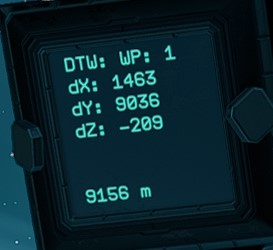
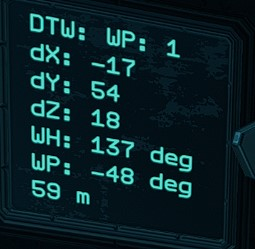
ISAN Waypoint Version 3.0

diff --git a/ISAN-Waypoint System/README.md b/ISAN-Waypoint System/README.md
@@ -1,22 +1,23 @@
-Version 2.0 - ISAN + Waypoint + Heading
+Version 3.0 - ISAN + Waypoint + Ship and Waypoint Heading
 ![Full-System](images/FullSystem.jpg)
 
-## Added support for up to 16 waypoints. Added Heading and Pitch (Thanks LizardFish).  Upgraded ISAN to new version with more reliable speed and other features.
+## Added support for up to 16 waypoints. Added Ship and Waypoint Heading and Pitch (Thanks LizardFish).  Upgraded ISAN to new version with more reliable speed and other features.
 
 This is the ISAN system from the Collective. 
 ![Coordinates](images/Coordinates.jpg)
 
-It has modified to work with my waypoint system and adding in heading and pitch from LizardFish.  The system will store up to 16 waypoints, cycle up and down (wrapping at the ends) and has a overwrite and home feature (goes to wp1).
+It has been modified to work with my waypoint system and adding in heading and pitch for both ship and to waypoint.  The system will store up to 16 waypoints, cycle up and down (wrapping at the ends) and has an overwrite and home feature (goes to wp1).
 
 "Pitch is your "vertical" angle from the Z axis with 0 being flat along the plane of the belt, and -90 and 90 being perpendicular.
 Heading is your "horizontal" angle from the Z axis with 0 being along it pointing into the belt, 90 being along the X axis pointing "left" along the belt, and it wrapping back around to 360 pointing back into the belt"
 
 # Getting Started
-You can install all or part of this system. These instructions assume you are installing it all. The ISAN.yolol is the same as the one found on their github as of 8/17/21, except it has been modified for Mono mode accuracry (pr=1), speed indication (sp=1),memory chip storage of X, Y and Z, and support of heading and pitch system.
+You can install all or part of this system. These instructions assume you are installing it all. The ISAN.yolol is the same as the one found on their github as of 8/17/21, except it has been modified for Mono mode accuracry (pr=1), speed indication (sp=1),memory chip storage of X, Y and Z, and support of heading and pitch system.  Do not use vanilla ISAN with this system.
 
 #### Materials List for whole system
-* Advanced YOLOL Chip - ISAN.yolol script.
-* Advanded YOLOL Chip - DTW.yolol script.
+* Advanced YOLOL Chip - ISAN.yolol script - This is the ISAN script
+* Advanded YOLOL Chip - WPDTW.yolol script - This is the Waypoint screen info script
+* Advanced YOLOL Chip - ShipHeading.yolol script - This is the ships heading screen info script.
 * Basic YOLOL Chip - WPIncrement.yolol script.
 * (OPTIONAL) Basic YOLOL Chip - Deltas.yolol, needed if display of current deltas is desired.
 * 3 YOLOL Memory Chips - One for storing `X`, `Y`, `Z` and current WP's `wX`, `wY`, `wZ`, and current `wpnum`.  One for storing up to 10 waypoints. One for storing another 6 waypoints and variables needed for heading and pitch
@@ -25,22 +26,25 @@ You can install all or part of this system. These instructions assume you are in
 * 1 progress bar (OPTIONAL) - Used to display current WP by the selectors.
 
 #### Setup Instructions - Note: `wpb` is a critical field.  If you do not use warning buttons, you must create this field in memory chip 1.
-1. Install all chips for desired level of system.  Be sure to bolt them in where appropriate.  Remember Memory chips only go in one way and can vanish if not inserted properly.  Recommend inserting memory chip, the yaw slightly on ship, see if its still in place.
-2. Memory Chip 1.  On the chip, set the following fields: `X`, `Y`, `Z` to 1000, `wx`, `wy`, `wz` to 1000, `wpc` to "1000 1000 1000", `wpnum` to 1.  ![MEMORY-CHIP1](images/MemChip1.jpg)
-3. Install the modified ISAN.yolol from here on an Advanced Chip.  Set up the receivers fields and data screen name (`_`) per https://isan.to/isan.pdf. The Waypoint system doesnt care if you are mono or quad mode.  If quad mode, you can set pr=0 in the script to turn off precision.  The isan.yolol in this folder is modified, do not use the vanilla version. (Display and Reciever fields should be updated as shown in the PDF) ![ISAN-SCREEN](images/ISANScreen.jpg)
-4. (OPTIONAL) Install Deltas.yolol on basic chip.  On a Text Screen, rename PanelValue field name to `Deltas`.  When moving, this will show your current delta X, Y and Z along with OPENING or CLOSING in reference to X, Y and Z to selected Waypoint.![DELTAS-SCREEN](images/DeltasScreen.jpg)
-5. Install Memory Chip 2.  On the chip, set the fields to: `wp1` to `wp10`.  Set the values to "1 1 1" unless you have specific waypoints you want to put in. ![MEMORY-CHIP2](images/MemChip2.jpg)
-6. Install Memory Chip 3.  On it set fields `i`, `j`, `k`, `l` to 0, set fields `wp11` to `wp16` to "1 1 1". ![MEMORY-CHIP3](images/MemChip3.jpg)
-7. Install DTW.yolol on an advanced chip.  On a text screen, rename PanelValue field name to `DTW`.  This will display Waypoint Number, Distance, and delta X, Y, Z to it. ![DTW-SCREEN](images/DTWScreen.jpg)  On another text screen, renamed PanelValuye field to `Heading`  ![HEADING](images/Heading.jpg)
-8. Install WPIncrement.yolol on an basic chip. Install 4 warning buttons. Rename ButtonState field names to `wpi`, `wpd`, `wps`, `wph`.  (Increment, Decrement, Save, Home).  Rename all ButtonEnableBlink fields to `wpb`.  ButtonStyle should be 1.  ButtonColor is user preference, i use Red(0) for decrement, Green(2) for increment, Blue(3) for Save, and Orange(1) for Home. ![WP-Buttons](images/WPInc-DecButtons.jpg)  Note: `wpb` is a critical field.  If you do not use warning buttons, you must create this field in memory chip 1.
-9. (OPTIONAL) Install progress bar near warning buttons if needed to show currently selected waypoint. Name PanelValue to `wpnum`.  Minvalue 0, maxvalue 16.
+1. Install all chips for desired level of system.  Be sure to bolt them in where appropriate.  Remember Memory chips only go in one way and can vanish if not inserted properly.  Recommend inserting memory chip, then yaw slightly on ship, see if its still in place.
+2. Memory Chip 1.  On the chip, set the following fields: `X`, `Y`, `Z` to 0, `wx`, `wy`, `wz` to 1000, `wpc` to `"1000 1000 1000"` (quotes included), `wpnum` to 1. If not using warning buttons (see below) put `wpb` on this chip set to 0.  ![MEMORY-CHIP1](images/MemChip1.jpg)
+3. Install Memory Chip 2.  On the chip, set the fields to: `wp1` to `wp10`.  Set the values to `"1000 1000 1000"` (quotes included) unless you have specific waypoints you want to put in. ![MEMORY-CHIP2](images/MemChip2.jpg)
+4. Install Memory Chip 3.  On it set fields `i`, `j`, `k`, `l` to 0, set fields `wp11` to `wp16` to `"1000 1000 1000"` (quotes included). ![MEMORY-CHIP3](images/MemChip3.jpg)
+5. Install the modified ISAN.yolol from here on an Advanced Chip.  Set up the receivers fields and data screen name (`_`) per https://isan.to/isan.pdf. The Waypoint system doesnt care if you are mono or quad mode.  If quad mode, you can set pr=0 in the script to turn off precision.  The isan.yolol in this folder is modified, do not use the vanilla version. (Display and Reciever fields should be updated as shown in the PDF) ![ISAN-SCREEN](images/ISANScreen.jpg)
+6. (OPTIONAL) Install Deltas.yolol on basic chip.  On a Text Screen, rename PanelValue field name to `Deltas`.  When moving, this will show your current delta X, Y and Z along with OPENING or CLOSING in reference to X, Y and Z to selected Waypoint.![DELTAS-SCREEN](images/DeltaScreen.jpg)
+7. Install WPDTW.yolol on an advanced chip.  On a text screen, rename PanelValue field name to `DTW`.  This will display Waypoint Number, Distance, WP Heading and WP Pitch, and delta X, Y, Z to it. ![DTW-SCREEN](images/DTWScreen.jpg)  
+8. Install ShipHeading.yolol on the third advanced chip.  On another text screen, renamed PanelValuye field to `Heading`  ![HEADING](images/Heading.jpg)
+9. Install WPIncrement.yolol on an basic chip. Install 4 warning buttons. Rename ButtonState field names to `wpi`, `wpd`, `wps`, `wph`.  (Increment, Decrement, Save, Home).  Rename all ButtonEnableBlink fields to `wpb`.  ButtonStyle should be 1.  ButtonColor is user preference, I use Red(0) for decrement, Green(2) for increment, Blue(3) for Save, and Orange(1) for Home. ![WP-Buttons](images/WPInc-DecButtons.jpg)  Note: `wpb` is a critical field.  If you do not use warning buttons, you must create this field in memory chip 1.
+10. (OPTIONAL) Install progress bar near warning buttons if needed to show currently selected waypoint. Name PanelValue to `wpnum`.  Minvalue 0, maxvalue 16.
 
-#### Usage Instructions - Note, if DTW.yolol is stuck on line 3, change the goto at the end to goto1 then back to goto3+c<0
-1. During normal flight, the ISAN screen will show you current X, Y and Z and Speed.  The Deltas screen will show you your current X, Y and Z deltas based on current flight direction and speed along with OPENING or CLOSING re XYZ of waypoint. The DTW screen will show currently selected waypoint, distance to it, and delta X, Y and Z to it.  The Heading screan will show heading and pitch stably AFTER flying in a straight line for a few moments.  Do not use this for precision flying.
-2. To fly to your waypoint, if DTW says you are -500X you would want to fly plus X, etc.  Also if all 3 fields say CLOSING you are going in right general direction, but note the magnitudes of the deltas.
+#### Usage Instructions - Note, if WPDTW.yolol is stuck on line 3, change the goto at the end to goto1 then back to goto3+c<0
+1. During normal flight, the ISAN screen will show you current X, Y and Z and Speed.  The Deltas screen will show you your current X, Y and Z deltas based on current flight direction and speed along with XYZ OPENING or CLOSING to your current selected waypoint, IF MOVING. The DTW screen will show currently selected waypoint, distance to it, the WP Heading and Pitch to it, and delta X, Y and Z to it.  The Heading screen will show heading and pitch.  If it says Live at bottom, its updating, if it says Last Known, you are not moving so its the last reading it calculated.  Ships heading is stable AFTER flying in a straight line for a bit.
+2. To fly to your waypoint: (recommend using combo of both methods)
+    Method1: Use delta X/Y/Z shown on DTW screen and Deltas screen.  If DTW says you are dx: -500 then you would want the dx on the deltas screen to say a positive number.  Also if all 3 fields say CLOSING you are going in right general direction, but note the magnitudes of the deltas.  NOTE: This is the most accurate since if it says you are 500x off, you are 500x off.
+    Method2: Use the WH and WP shown on the DTW screen.  Start flying VERY slowly (just need relative motion) till your Ships heading stops jumping around.  Then yaw till heading is close to WP Heading, then pitch till your ships pitch is close to WP Pitch.  Then you can accelerate to full speed.  Note:  These numbers do sometimes radically shift for a second due to transponder issues, fps issues, lag, etc.  Use the stable values.  I have twiced tested turning off station markets and flying back to my Origin from 40k in belt in fog with no idea which way to go first. Both times it got me home.
 ##### IMPORTANT: When using the Waypoint buttons, press them one time, wait for blinking to stop before pressing another.  DTW display will show PARSING WAYPIONT while its changing over.
-3. To raise or lower current waypoint, press the Increment or Decrement warning button.  It wraps from 10 to 1 and 1 to 10.  Wait for blinking to stop and its set.
+3. To raise or lower current waypoint, press the Increment or Decrement warning button.  It wraps from 16 to 1 and 1 to 16.  Wait for blinking to stop and it's set.
 4. To overwrite current waypoint, press the Save warning button.  You will get the same blinking and PARSING message.
 5. To go to waypoint 1 press the Home warning button. (Saves time if you are on 5 for example).  Waypoint 1 is always considered home.
 
-IF SOMETHING ISNT WORKING - Recommend putting chips on a socket or chip reader insert so you can watch them run live and see where they are getting stuck.
+IF SOMETHING ISN'T WORKING - Recommend putting chips on a socket or chip reader insert so you can watch them run live and see where they are getting stuck, this will let me give better tech support.
